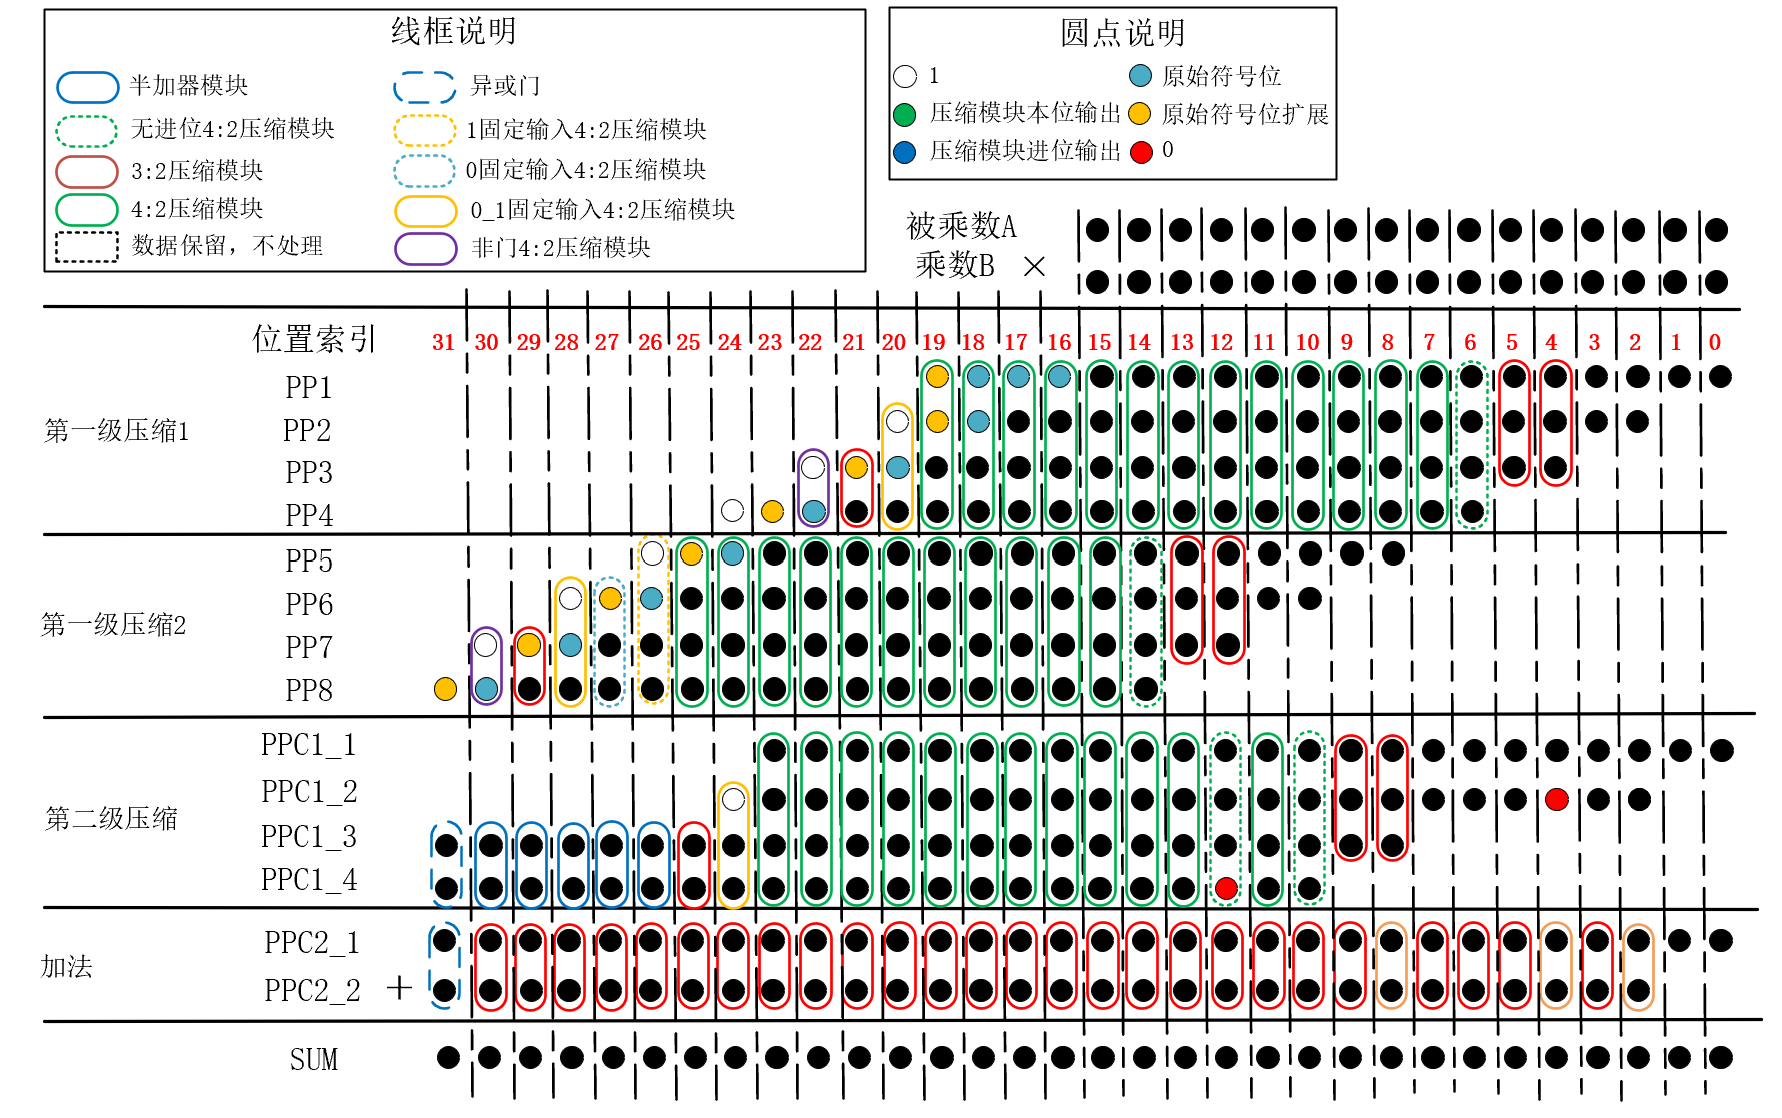
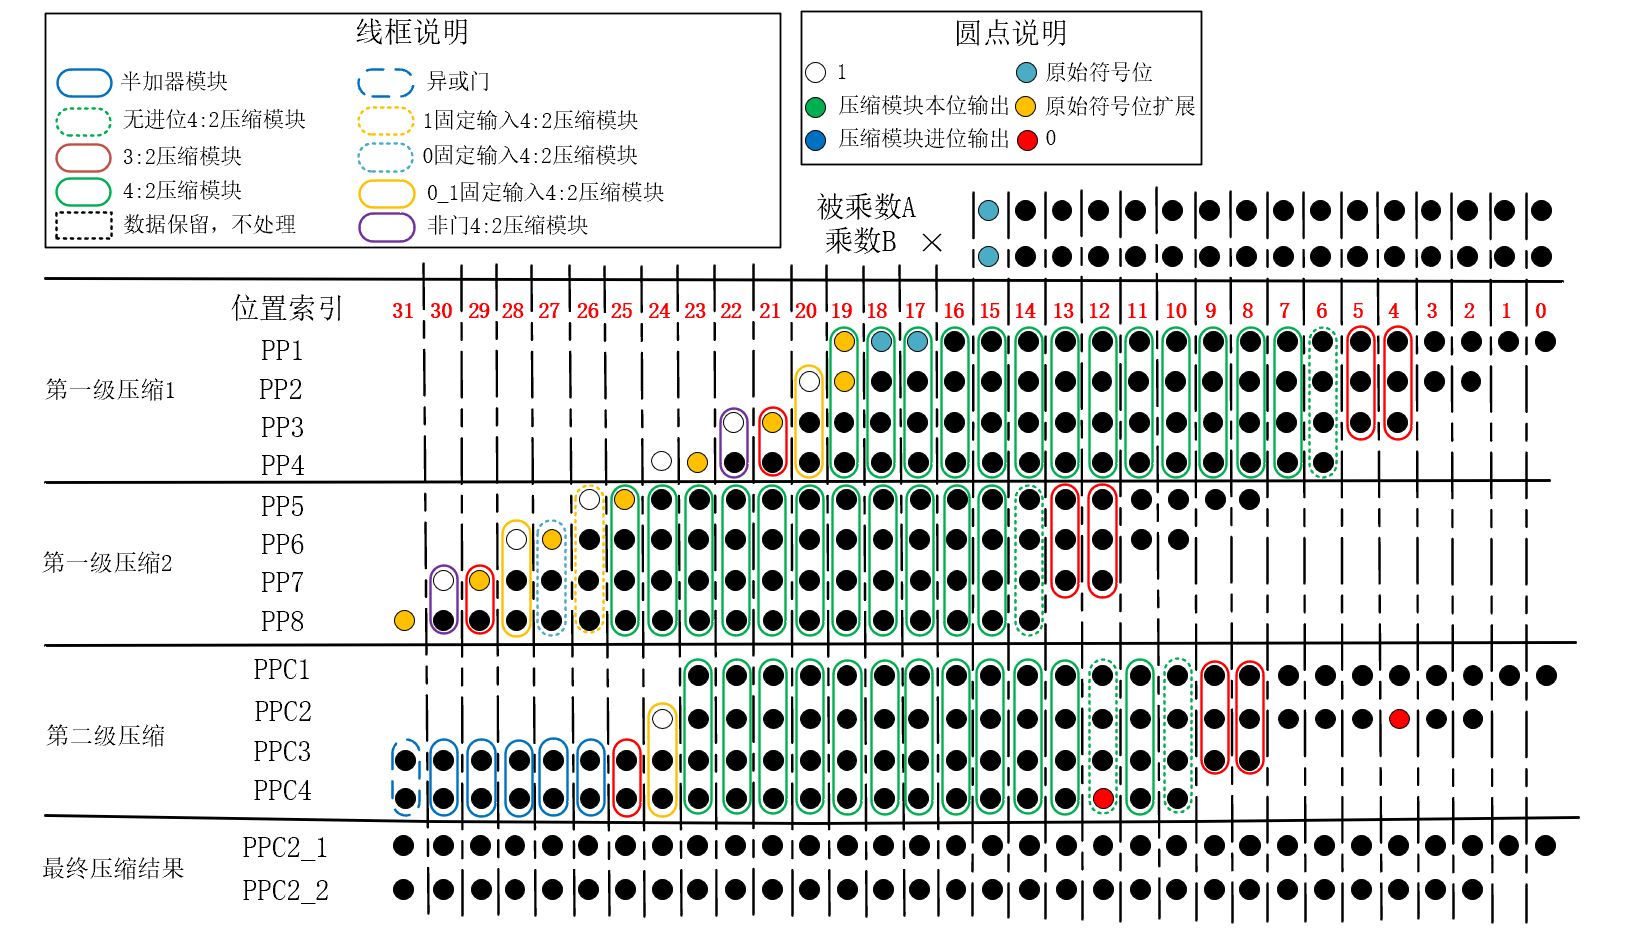
Update README.md

diff --git a/README.md b/README.md
@@ -473,7 +473,7 @@ $$
  <center>图27. 采用符号位编码后的乘法矩阵点图</center>
 
 ##### Wallace树结构
-完成对符号位的编码后，对编码后的部分积进行部分积压缩。本设计采用Wallace Tree结构来进行部分积压缩，构建的Wallace树的结构如图28所示，使用两级4:2压缩过程，共计3个4:2压缩过程来得到最终的两个部分积`PPC2_1`、`PPC2_2`，每个“4：2压缩“过程由多个“4：2压缩器模块”和若干”3：2压缩模块“组成。
+完成对符号位的编码后，对编码后的部分积进行部分积压缩。本设计采用Wallace Tree结构来进行部分积压缩，构建的Wallace树的结构如图28所示，使用两级4:2压缩过程，共计3个4:2压缩过程来得到最终的两个部分积。第一级的两个4：2压缩过程是并行进行的，压缩完成后再接着进行第二级4：2压缩。每个“4：2压缩“过程由多个“4：2压缩器模块”和若干”3：2压缩模块“组成，有关这些“压缩模块”的细节将在下文进行详细解释。
 
 ![](image/wallace_tree.png)
 
@@ -630,7 +630,7 @@ $$
 
 <center>图43. 优化后的固定输入为1的4：2压缩模块</center>
 
-对于图40中位置索引27上使用的“固定输入为0的4：2压缩模块”，令图32中的“标准4：2压缩模块”的`i2`为0，则4:2压缩模块变换为图44中的电路结构。结合前文分析，这个变换后的4：2压缩的前半部分是图30中的“等效异或门”少一个输出端的非门，即实际上变为“等效同或结构”。
+对于图40中位置索引27上使用的“固定输入为0的4：2压缩模块”，令图32中的“标准4：2压缩模块”的`i0`为0，则4:2压缩模块变换为图44中的电路结构。结合前文分析，这个变换后的4：2压缩的前半部分是图30中的“等效异或门”。
 
 ![](image/in_0_4_2_1.png)
 
@@ -638,164 +638,92 @@ $$
 
 <center>图44. 固定输入为1的4：2压缩模块的一种变体</center>
 
+由图44可知，进位输出`co`的表达式为(24)：
+$$
+co=i_1i_2\tag{24}
+$$
+使用前文已经提到的图12中的等效异或门结构取代图44中的“等效异或结构”，该异或运算电路存在中间运算数据 $i_1i_2$,这就是`co`，无需额外的电路资源生成`co`，经过优化后的结构如图45所示。
 
+![](image/in_0_4_2_2.png)
 
+<center>图45. 优化后的固定输入为1的4：2压缩模块</center>
 
+###### 第二级压缩
 
-“固定输入为0和1的4：2压缩模块”，令原来图23中的输入端`i0`为0，`i2`为1，则原来的4：2压缩器变为如图29的电路结构，与传统4：2压缩器比较可知，4：2压缩器的第一级3:2压缩器被一个非门(NOT)取代。
-
-
-
-
-
-
-
-
-
-
-
-
-
-
-
-
-
-
-
-
-
-
-
-
-##### 4:2压缩器整体结构
-
-假设现有4个由booth编码算法生成的4个部分积`pp1`-`pp4`，欲将其输入到“4:2压缩器”得到两个压缩后的部分积`ppc1`、`ppc2`，部分积乘法矩阵图如图13所示，从图中可以观察到如下规律：
-
-![](image/pp1_4_dot.png)
-
-<center>图13. 前四个部分积矩阵图</center>
-
-1. 位置索引为3:0的权位有效的数据输入不到两行，矩阵图空白的地方都是0，在这些权位上，天然就是两个部分积，故而无需额外处理即可作为压缩后部分积的输出。
-2. 位置索引为5:4的索引，有效的部分积输入是3个，使用3:2压缩模块即可生成两个压缩后的部分积，在本设计中，如前文
-
-
-
-
-
-
-
-
-
-一次部分积的压缩过程如图14所示，图13中黑色虚线框代表“天然”的两个部分积，无需压缩，直接保留。红色线框圈住的部分代表使用3:2压缩器的位置，绿色线框圈住的部分代表使用4:2压缩器的位置。
-对于压缩器模块的输出数据，绿色圆点代表压缩器输出结果保留到本级权重的数据，即图4中和图5中压缩模块的输出数据`d`，蓝色圆点代表压缩器输出结果输出到更高一级权重的数据，即图4中3：2压缩模块的输出数据`co`或者图5中4：2压缩模块的输出数据`c`。
-
-![](image/PP_comb_3_2_4_2.png)
-
- <center>图14. 部分积压缩过程示意图</center>
-
-##### 部分积压缩过程
-
-观察图15中编码后的数据，可以发现对于前四个部分积`pp1`-`pp4`，其部分积数据存在以下规律：
-
-- 位置索引6上使用的“4:2压缩模块”可以不考虑进位输入`cin`，因为低一位权位上使用的3:2压缩模块的进位输出`co`不会传播到位置索引6上使用的“4:2压缩模块”，可以设计一个不考虑进位输入的4:2压缩模块`non_cin_4_2_compressor`，其电路结构如图17所示，相比于标准的4:2压缩模块，其电路资源开销变小。
-
-- 位置索引20位置上的“4:2压缩模块”有2个确定的输入，即来自`PP1`的0和来自`PP2`的`1`，为这个确定的输入设计专用的“4:2”压缩模块“，其电路结构如图18所示，相比于标准的4:2压缩模块，其电路资源开销变小。
-- 位置索引21上的“4:2压缩模块”实际上只有三个有效输入信号，即来自上级压缩器的进位输入`cin`、来自`pp3`、`pp4`的数据，因此，使用3:2压缩器即可实现原来4:2压缩器的功能，且3:2进位输出信号`co`直接保留到`PPC1_2`,不会造成进位链延长的问题。
-- 位置索引22上的“4:2压缩模块”只有2个有效输入，即来自`pp4`的数据和`pp3`上的`1`,实际上就是将`pp4`的数据加1保留到`PPC1_1`，并产生进位信号到`PPC1_2`的过程。 
-- 位置索引23、24位置上的有效部分积项数不超过2个，可以直接保留。
-
-
-
-![](image/non_cin_4_2.png)
-
-<center>图17. 不考虑进位输入的4:2压缩模块门级电路结构</center>
-
-
-
-![](image/in_0_1_4_2.png)
-
-<center>图18. 有2个确定输入分别为0、1的4:2压缩模块</center>
-
-结合以上规律，本设计第一级压缩处理`pp1`-`pp4`的过程如图19所示，有关说明可以参见图例。
-
-![](image/new_pp_comb.png)
-
-<center>图19. PP1-PP4的压缩过程示意图</center>
-
-观察图16中编码后的数据，可以发现对于后四个部分积`pp5`-`pp8`，其数据分布还存在以下规律：
-- 位置索引26上的“4:2压缩模块”有一个确定的输入，即来自`PP5`的1，为这个确定的输入设计专用的“4:2”压缩模块“，其电路结构如图20所示，相比于标准的4:2压缩模块，其电路资源开销变小。
-- 位置索引27上的“4:2压缩模块”有一个确定的输入，即来自`PP5`的0，为这个确定的输入设计专用的“4:2”压缩模块“，其电路结构如图21所示，同样减小了电路资源开销。
-- 位置索引28上的“4:2压缩模块”有确定的两个输入0和1，使用上文提到的有确定输入为0、1的结构，参见图18。
-- 位置索引29上直接使用“3:2压缩模块”。
-- 位置索引30上的“4:2压缩模块”只有两个有效输入，即来自`pp8`的数据和`pp7`上的`1`,实际上就是将`pp8`的数据加1保留到`PPC1_3`，并产生进位信号到`PPC1_4`即可。 
-- 位置索引31位置上的有效部分积项数不超过两个，可以直接保留。
-
-![](image/in_1_4_2.png)
-
-<center>图20. 有一个确定输入为1的4:2压缩模块</center>
-
-![](image/in_0_4_2.png)
-
-<center>图21. 有一个确定输入为0的4:2压缩模块</center>
-
-结合以上规律，本设计第一级压缩处理`pp5`-`pp8`的过程如图22所示，有关说明可以参见图例。
-
-![](image/new_pp_5_8.png)
-
-<center>图22. PP5-PP8的压缩过程示意图</center>
-
-经过第一级压缩后，得到的部分积矩阵图如图23所示。
+经过前两两小节所述的第一级的两次压缩后，得到4个部分积`PPC1`、`PPC2`、`PPC3`、`PPC4`，第二级压缩需要将这4个部分积压缩成最终的两个部分积`PPC2_1`和`PPC2_2`，其压缩过程的数据矩阵如图46所示。图中位置索引为24处的白色圆点代表由符号编码补充的1，这一数据在第一级压缩中没有处理，直接保留。图中红色圆点代表0，由于在第一级压缩时没有数据数据赋值到这两个位置，故这些位置当成是0。
 
 ![](image/ppc_dot.png)
 
-<center>图23. 第二级压缩部分积矩阵图</center>
+<center>图46. 第二级压缩过程数据矩阵示意图</center>
 
-观察图中点阵，可以发现如下规律：
-- 在位置索引7-0上"天然"就是两个部分积，因此直接保留到`PPC2_1`、`PPC2_2`即可。
-- 在位置索引10上，没有来自上一级压缩器的进位信号，有效输入数据只有4个，使用不考虑进位输入的4:2模块，参见图17。
-- 在位置索引12上，`PPC1_4`为0，因此也可以使用不考虑进位输入的4:2模块，参见图17。
-- 位置索引24上的“4:2压缩模块”有确定的两个输入0和1，使用上文提到的有确定输入为0、1的结构，参见图18。
-- 位置索引25上只有三个有效数据，使用3:2压缩模块即可达到压缩成两个部分积的目的。
-- 位置索引30：26上只有两个有效数据，使用半加器即可实现"4:2"压缩，这里半加器的进位保留到`PPC2_2`，而不是输出到别的加法模块，因此，不产生进位链延长的问题。
-- 位置索引31上的压缩器，进位输出被舍去，这一级只需要产生同权值位的数据即可，使用一个异或门对`PPC1_3`、`PPC1_4`进行异或，即可实现这一功能，节省了电路资源。
+观察图46中点阵，可以发现如下规律：
 
-综上分析，第二级压缩过程如图24所示。
+1. 在位置索引7-0上"天然"就是两个部分积，因此直接保留到`PPC2_1`、`PPC2_2`即可。
+2. 在位置索引9-8上，同一权值上只有三个有效数据输入，使用“3:2压缩器”即可将部分积压缩为2个，其电路结构如图30所示。
+3. 在位置索引10上，没有来自位置索引9处的压缩器的进位输入，有效输入数据只有4个，使用“无进位输入的4:2模块”，其电路结构在上文图37中已经展示。
+4. 在位置索引12上，`PPC1_4`为0，因此也可以使用“无进位输入的4:2模块”，其电路结构见图37。
+5. 位置索引24上的“4:2压缩模块”有确定的两个输入0和1，使用上文提到的“ 固定输入为0和1的4：2压缩模块”，其电路结构见图38。
+6. 位置索引25上只有三个有效数据，使用3:2压缩模块即可达到压缩成两个部分积的目的，其电路结构在图30中已经展示。
+7. 位置索引30：26上只有两个有效数据，使用半加器即可实现"4:2"压缩，这里半加器的进位保留到`PPC2_2`，而不是输出到平行的模块，不产生进位链延长的问题。
+8. 位置索引31上的压缩器，无需考虑进位输出，产生同权值位的数据`PPC2_1`即可，使用一个异或门(XOR)对`PPC3`、`PPC4`进行异或即可得到这一值。
+
+综上分析，第二级压缩过程如图47所示。
 
 ![](image/pp_class_2.png)
 
-<center>图24. 第二级压缩部过程示意图</center>
+<center>图47. 第二级部分积压缩所用模块示意图</center>
 
-结合本章分析，两级部分积压缩的全体过程如图25所示。
+综合本节对部分积压缩的过程的分析，两级部分积压缩的全流程中，所用的模块如图48所示。
 
 ![](image/pp_compress_all.png)
 
-<center>图25. 部分积压缩全流程示意图</center>
+<center>图48. 部分积压缩全流程示意图</center>
 
 #### 部分积求和
 
 通过构建wallace tree进行部分积压缩后，得到两个压缩后的部分积`PPC2_1`和`PPC2_2`，需要将这两个部分积通过加法器进行求和即可得到最终的乘法器的输出`C_NUM`。
 常用的加法器结构有行波进位加法器和超前进位加法器，超前进位加法器逻辑资源开销大，但不会造成进位链延长，关键路径较短。行波进位加法器存在进位信号的级联线，因此关键路径较长，但资源开销较小。
 考虑到本设计压缩部分低位数据基本都是直接保留，并未经过过多的额外电路，中间位置数据使用4:2压缩器关键路径并没有非常长，因此本设计以尽可能少的资源为首要追求。
-两个压缩后的部分积`PPC2_1`和`PPC2_2`，其加法矩阵如图26所示。
+两个压缩后的部分积`PPC2_1`和`PPC2_2`，其加法矩阵如图49所示。
 
 ![](image/pp_add_dot.png)
 
-<center>图26. 部分积加法矩阵图</center>
+<center>图49. 部分积加法矩阵图</center>
 
-图25中红色圆点代表0，由于存在这一个特例，因此在位置索引为4、8的位置，可以使用半加器替代全加器，节省资源开销。在位置索引为1:0的地方只有一个数据`PPC2_1`，因此无需进行加法运算，直接输出即可。本设计使用的加法流程如图27所示。
+观察图49中点阵，可以发现如下规律：
+
+1. 在位置索引为1:0的地方只有一个数据`PPC2_1`，因此无需处理，直接作为输出。
+2. 在位置索引为2的地方，只有两个有效数据，即`PPC2_1`和`PPC2_2`，使用半加器即可完成加法运算。
+3. 在位置索引为4、8的位置，数据位存在固定的0，实际上只有两个有效数据，即`PPC2_1`和来自低位的进位输入，使用半加器即可完成加法运算。
+4. 最高位不必考虑向更高位的进位输出，直接使用2个异或门级联对`PPC2_1`、`PPC2_2`以及来自低位的进位输入求异或即可。
+
+上述所用的专用模块在前文已经提出，综上，本设计使用的加法模块结构如图50所示。
 
 ![](image/adder.png)
 
-<center>图27. 加法器结构</center>
+<center>图50. 加法器模块结构</center>
 
-### 测试仿真
+### 功能测试仿真
 
-使用verilog 硬件描述语言搭建了本设计所提出的乘法器，并编写testbench对各个模块进行仿真测试。
+使用verilog 硬件描述语言搭建了本设计所提出的乘法器，并编写每个模块的testbench对每一个模块进行逐一仿真测试。
 
-对于顶层模块`HIS_MULT`的仿真，在testbench文件中产生了两个随机数`A_NUM`、`B_NUM`，并在testbench中计算`A_NUM`与`B_NUM`的有符号乘积`C_NUM_real`，同时将`A_NUM`与`B_NUM`输入到例化的乘法器顶层模块`HIS_MULT`中，得到输出的模块计算结果`C_NUM`，在testbench中设计一个标志信号`correct`，当`C_NUM`==`C_NUM_real`时输出为1，反之为0。
+###### 随机数测试
 
-在Modelsim仿真软件中测试到的部分仿真结果如图28所示，由图可见，本设计所提出的乘法器的计算结果正确，经过较多的随机数仿真后，也有`C_NUM`==`C_NUM_real`(`correct`==1)的现象。
+对于顶层模块`HIS_MULT`的仿真，在testbench文件中产生了两个随机数`A_NUM`、`B_NUM`，并在testbench中计算`A_NUM`与`B_NUM`的有符号乘积的正确结果`C_NUM_real`，同时将`A_NUM`与`B_NUM`输入到例化的乘法器顶层模块`HIS_MULT`中，得到所设计乘法器的计算结果`C_NUM`，在testbench中设计一个标志信号`correct`，当`C_NUM`==`C_NUM_real`时输出为1，反之为0。
+
+在Modelsim仿真软件中测试到的部分仿真结果如图51所示，可见，本设计所提出的乘法器的计算结果正确。经过较多的随机数仿真后，也有`C_NUM`==`C_NUM_real`(`correct`==1)的现象，但由于可展示的数据有限，故无法将较多的数据写到本文中。
 
 ![](image/modelsim1.png)
 
-<center>图28. 仿真验证结果</center>
+<center>图51. 随机数验证部分结果</center>
+
+###### 数据遍历测试
+
+为了更进一步确认本乘法器计算结果的正确性，在testbench里通过for循环遍历了输入被乘数`A_NUM`和乘数`B_NUM`的所有可能，并进行结果验证，仿真结果也表明，本设计的计算结果正确无误。仿真测试的部分结果如图52所示，从图中亦可观察到结算结果正确。
+
+![](image/modelsim2.png)
+
+<center>图52. 数据遍历验证部分结果</center>
+
+### 附：资源和性能统计
+
